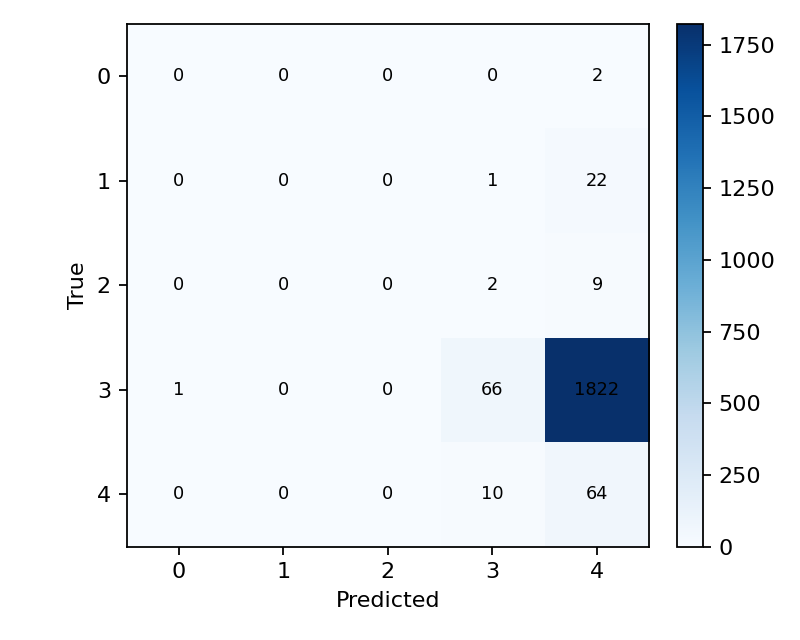
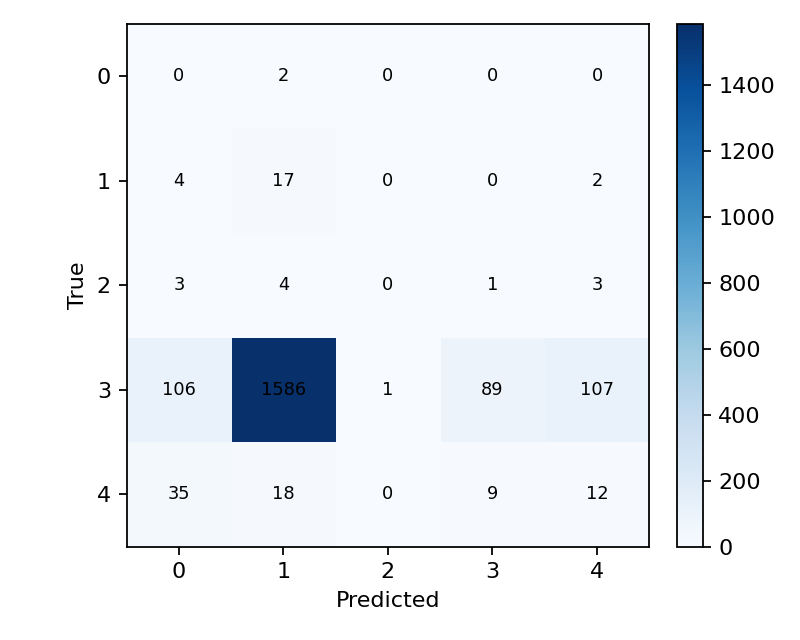
Experiment D: square-root severity weighting

diff --git a/scripts/train.py b/scripts/train.py
@@ -138,7 +138,8 @@ def run_training(config: TrainingConfig) -> TrainingArtifacts:
         sev_counts[row["label_severity_id"]] += 1
     total_sev = len(train_loader.dataset.rows)
     num_sev_classes = len(SEVERITY_LABELS)
-    sev_weights = [total_sev / (num_sev_classes * count) if count > 0 else 1.0 for count in sev_counts]
+    sev_weights = [(total_sev / (num_sev_classes * count)) ** 0.5 if count > 0 else 1.0 for count in sev_counts]
+    console.print(f"[bold blue]Computed Severity Weights (Square-Root Inverse Frequency): {dict(zip(SEVERITY_LABELS, sev_weights))}[/bold blue]")
     sev_weights_tensor = torch.tensor(sev_weights, dtype=torch.float).to(device)
 
     loss_fn = JointLoss(
